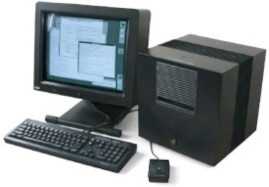
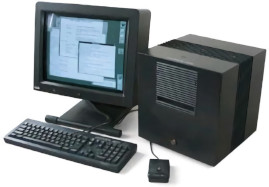
karabiner

diff --git a/README.md b/README.md
@@ -79,11 +79,11 @@ On another unrelated note, if using Control-X/C/V/O/S/Z/Y/F/A for Cut/Copy/Paste
 Go to Apple Menu -> System Preferences -> Shortcuts -> App Shortcuts and add (+):  
 ![ctrl-shortcuts](./ctrl-shortcuts.jpg)
 
-This will change every application that has Cut/Copy/Paste/... in menu commands to use new shortcuts. If name in the menu is bit different for examlpe "Find Pattern" it will not work - you will have to add exact name of the menu command. Also some apps that have their own custom config will not follow new shortcuts - like VSCode - but you can remap them in their own shortcuts config.
+This will change every application that has Cut/Copy/Paste/... in menu commands to use new shortcuts. If name in the menu is bit different for example "Find Pattern" it will not work - you will have to add exact name of the menu command. In finder Ctrl-C will not work because finder puts file name into Copy menu command - for example Copy "README.md" for this file. Paste is Paste Item instead of just Paste - it can be fixed by adding Paste Item in App Shortcuts but Ctrl-C cannot be fixed.
 
 ## Citrix configuration
 
-Citrix is very tricky to configure everything to work fine in Windows RDP session. Citrix likes to block some keys and key combos. I was searching for years for good setup that would enable Alt-Tab with real Alt - one next to Space and Alt-Shift-Down for multi-cursor in Notepad++ or VSCode and I finally found it on some page on Internet. Still up to now I didn't find a way to get Ctrl-Alt-Down to get through Citrix so I reconfigured VSCode to use Alt-Shift-Down for multi cursor instead - same as Notepad++.
+Citrix is very tricky to configure everything to work fine in Windows RDP session. Citrix and Mac like to block some keys and key combos. I was searching for years for good setup that would enable Alt-Tab with real Alt - one next to Space and Alt-Shift-Down for multi-cursor in Notepad++ or VSCode and I finally found it on some page on Internet. Still up to now I didn't find a way to get Ctrl-Alt-Down to get through Citrix so I reconfigured VSCode to use Alt-Shift-Down for multi cursor instead - same as Notepad++.
 
 If you remember from previous chapter and those are the settings that we start from, we have (in the order of keys on keyboard):
 
@@ -102,14 +102,31 @@ So after mapping on both internal and external keyboard order of keys is Ctrl-Al
 - Option/Alt
 - Command/Win
 
-Now mapping in citrix is:
-Send Control character using: ^ Control
-Send Alt character using: X Command (left) because Command in on normal position for Alt on windows keyboard
-Send Windows logo key using X Command (right) checkbox is selected
+Now, our goal is simple - since with Citrix we are connecting to windows, Ctrl-Alt-Win order should be changed to Ctrl-Win-Alt, either with Karabiner or Citrix configuration or native Mac tools. But it is not so simple. First let's see what are keyboard configuration options in Citrix.
+
+### How to remap keys in Citrix
+
+Citrix Viewer menu -> Preferences -> Keyboard
+- Send Control using ^ Control
+- Send Alt using left % Command
+- Send Windows logo using right % Command - checked
+
+![citrix](./citrix.jpg)
+
+As we can see, we can chose what sends Control, what sends Alt, but not what sends Win key, so for Win we chose only option available - send it as right Command - or better to say - expect right Command as Win or interpret right Command as Win.
+
+Second part of configuration is done in Karabiner. Control and Alt are already mapped. Nothing to do in Karabiner. What we need Karabiner for is to map left win to right command and because Mac will take control of Alt-Tab (Command-Tab) and give Mac task list we have to trick it somehow.
+
+For that we will need Karabiner Complex modifications. You can download hundreds of Karabiner modifications from internet. When downloaded they are saved into:  
+	~/.config/karabiner/assets/complex_modifications
+We can also save json files from this repo to that folder and they will appear on the list.
+Every file has a title and a list of rules.
+After rule is enabled it goes into:
+	~/.config/karabiner/karabiner.json
 
 Now in karabiner we configure two more rules:
 In Citrix send Tab with Fn so that Citrix doesn't block it
-In Citrix send right Command on left Option (Win key) - this will work since Citix expects right ctrl as Win key (check above)
+In Citrix send right Command on left Option (Win key) - this will work since Citrix expects right ctrl as Win key (check above)
 
 Additionally in RDP left alt and left win are switched on all keyboards.
 
